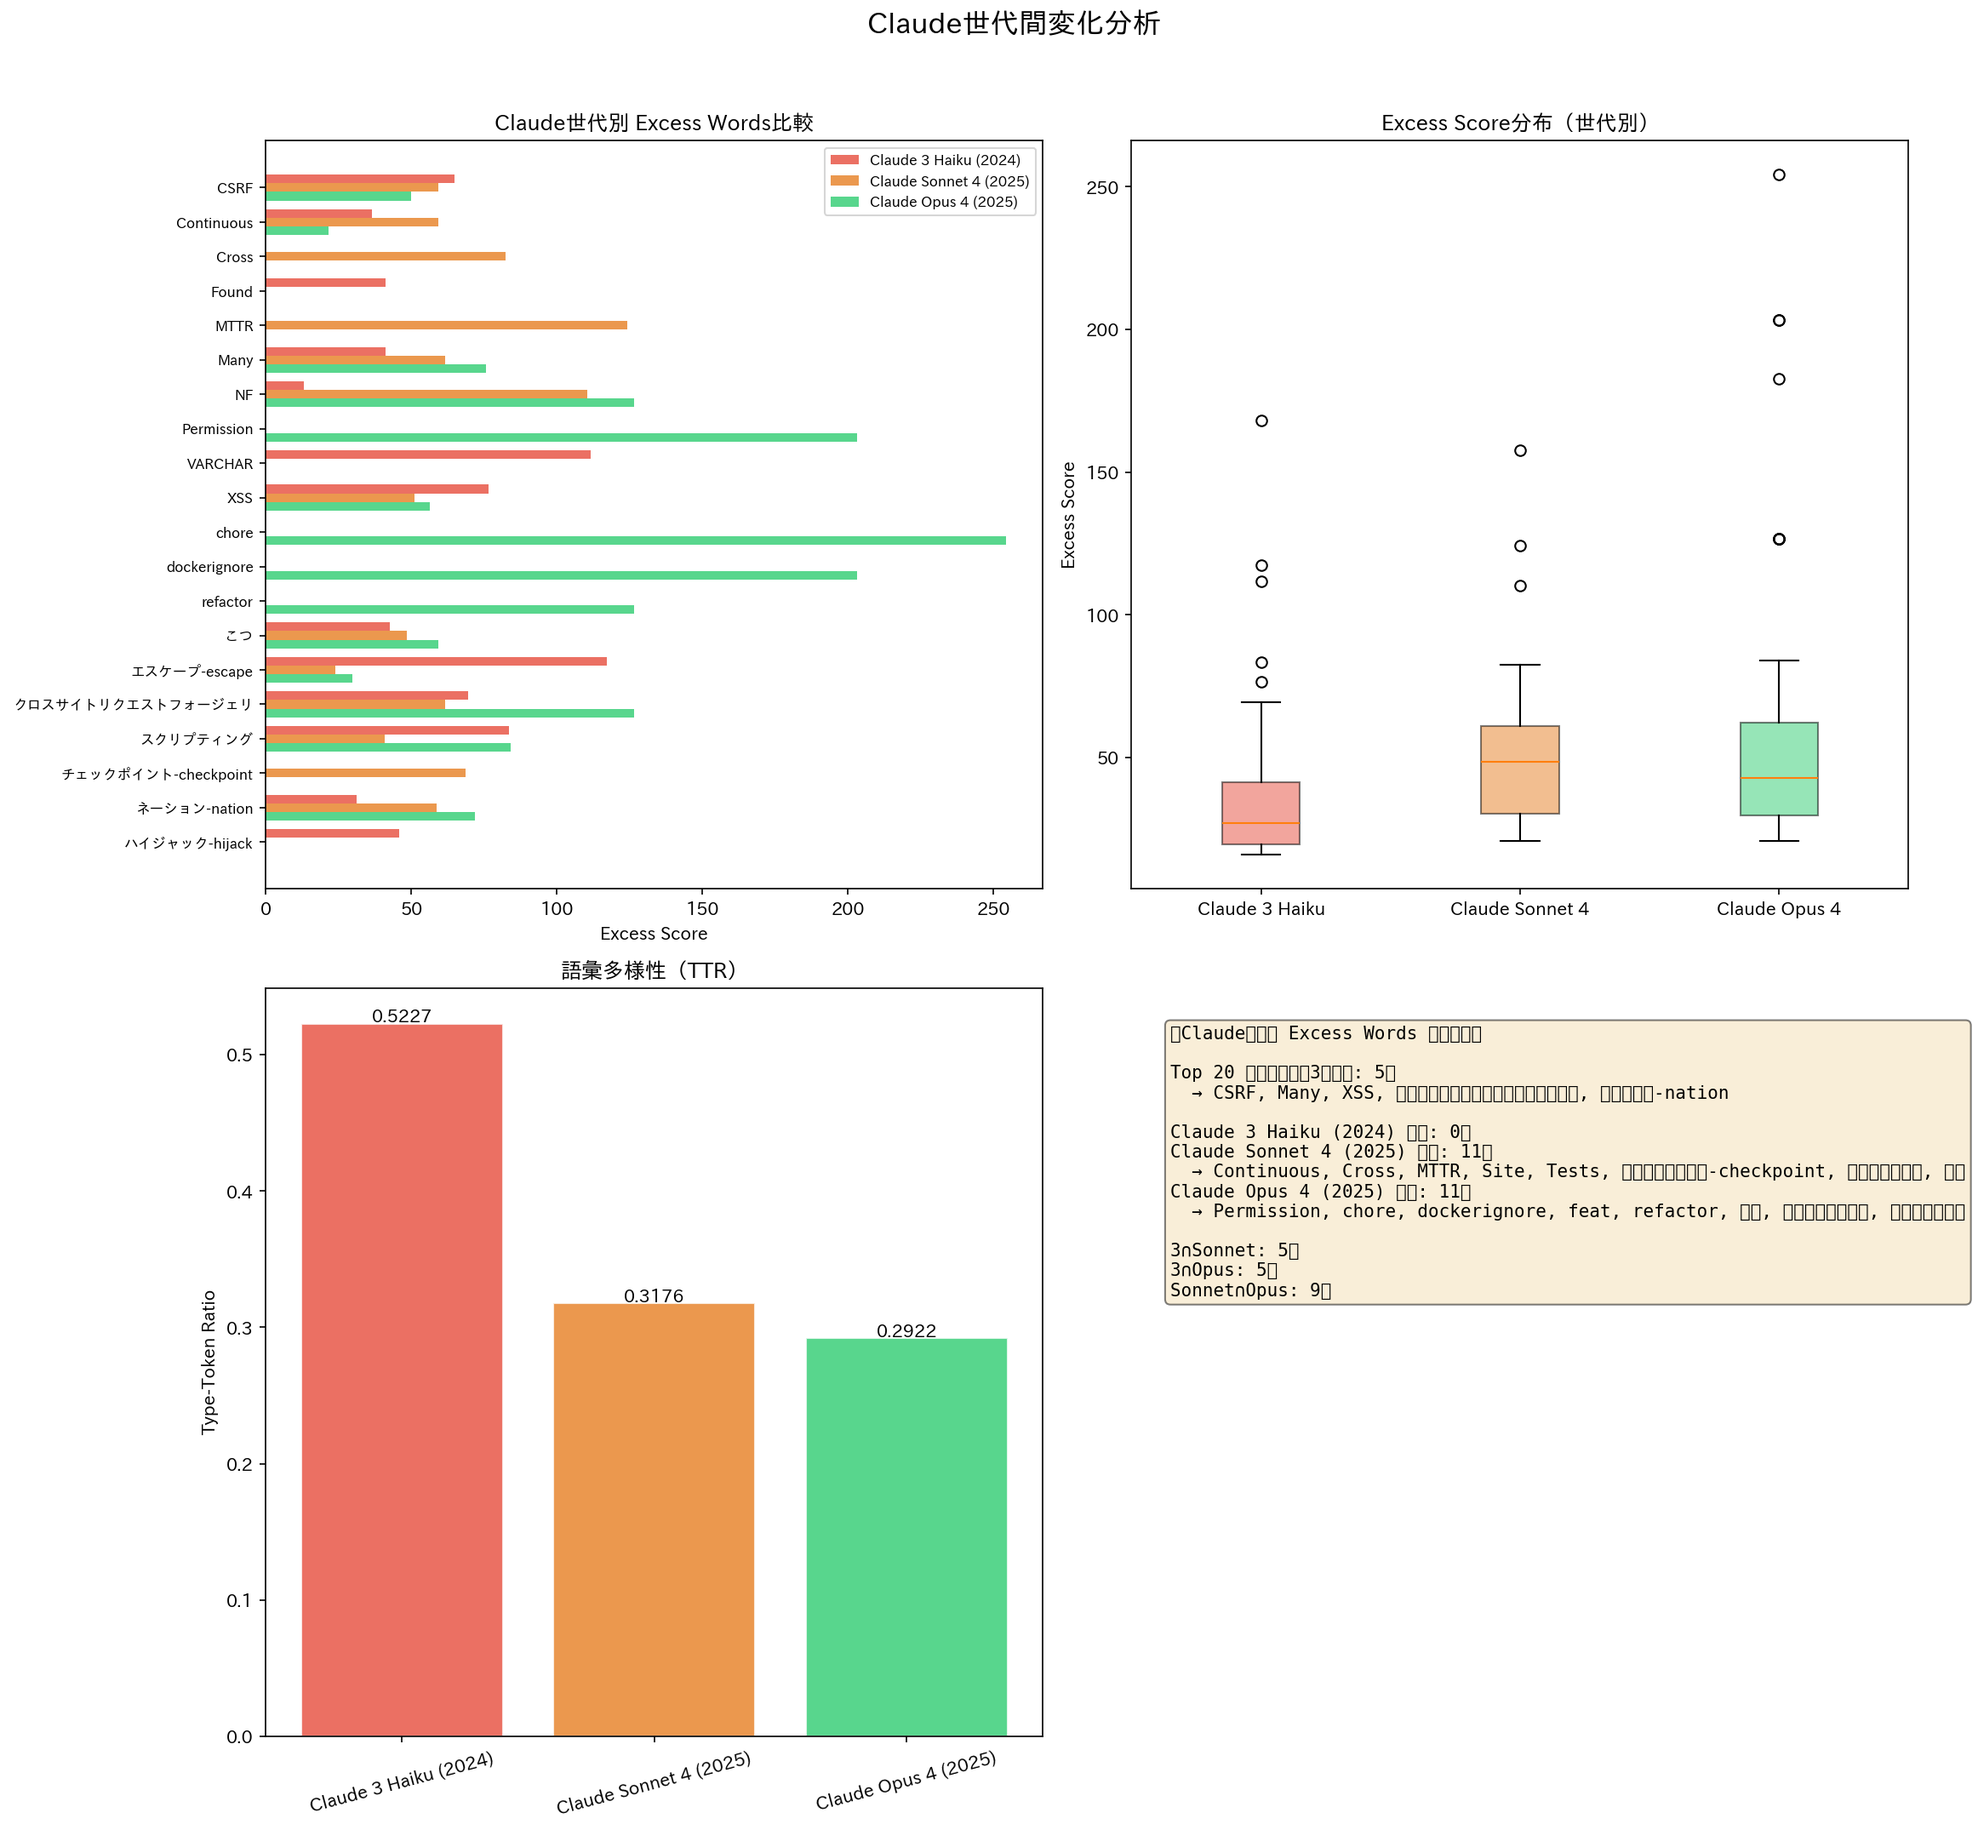
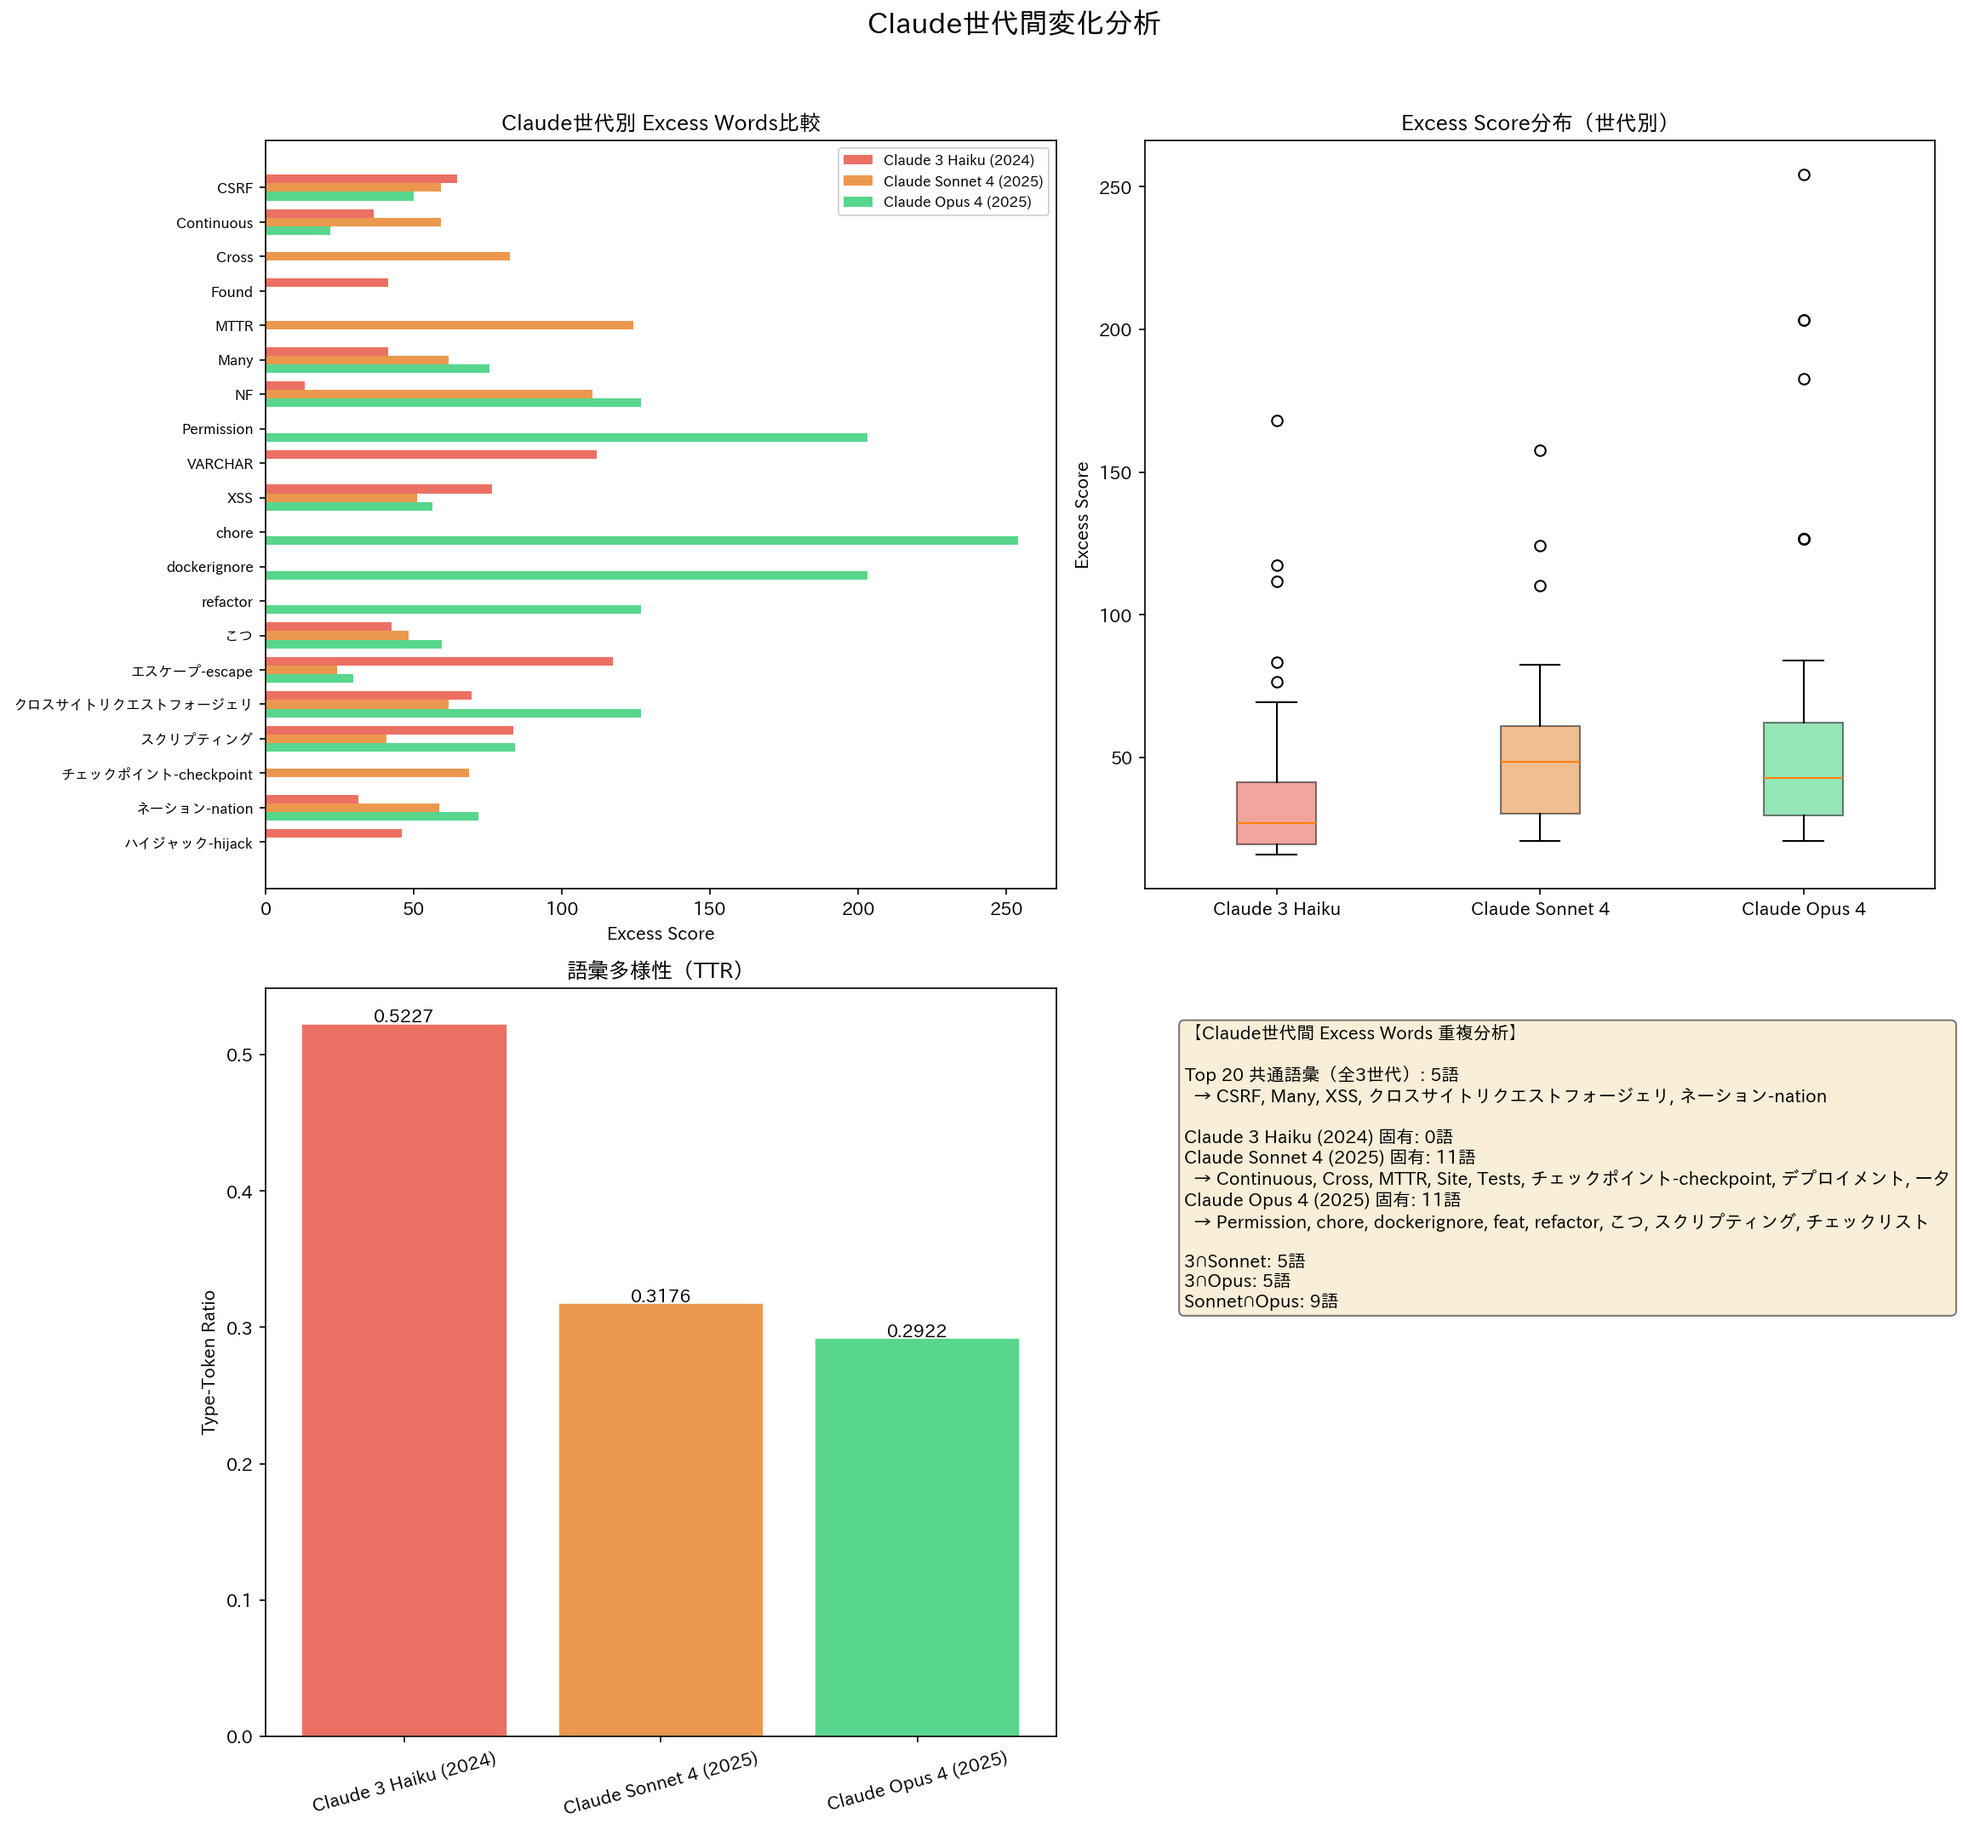
fix: monospace font causing Japanese mojibake in model_evolution.png

diff --git a/scripts/model_evolution.py b/scripts/model_evolution.py
@@ -240,7 +240,7 @@ def plot_evolution(model_top_words: dict, model_ttr: dict):
             text_lines.append(f"{short_i}∩{short_j}: {len(overlap)}語")
     
     ax.text(0.05, 0.95, "\n".join(text_lines), transform=ax.transAxes,
-            fontsize=10, verticalalignment="top", fontfamily="monospace",
+            fontsize=10, verticalalignment="top",
             bbox=dict(boxstyle="round", facecolor="wheat", alpha=0.5))
     
     plt.suptitle("Claude世代間変化分析", fontsize=16, fontweight="bold", y=1.02)
